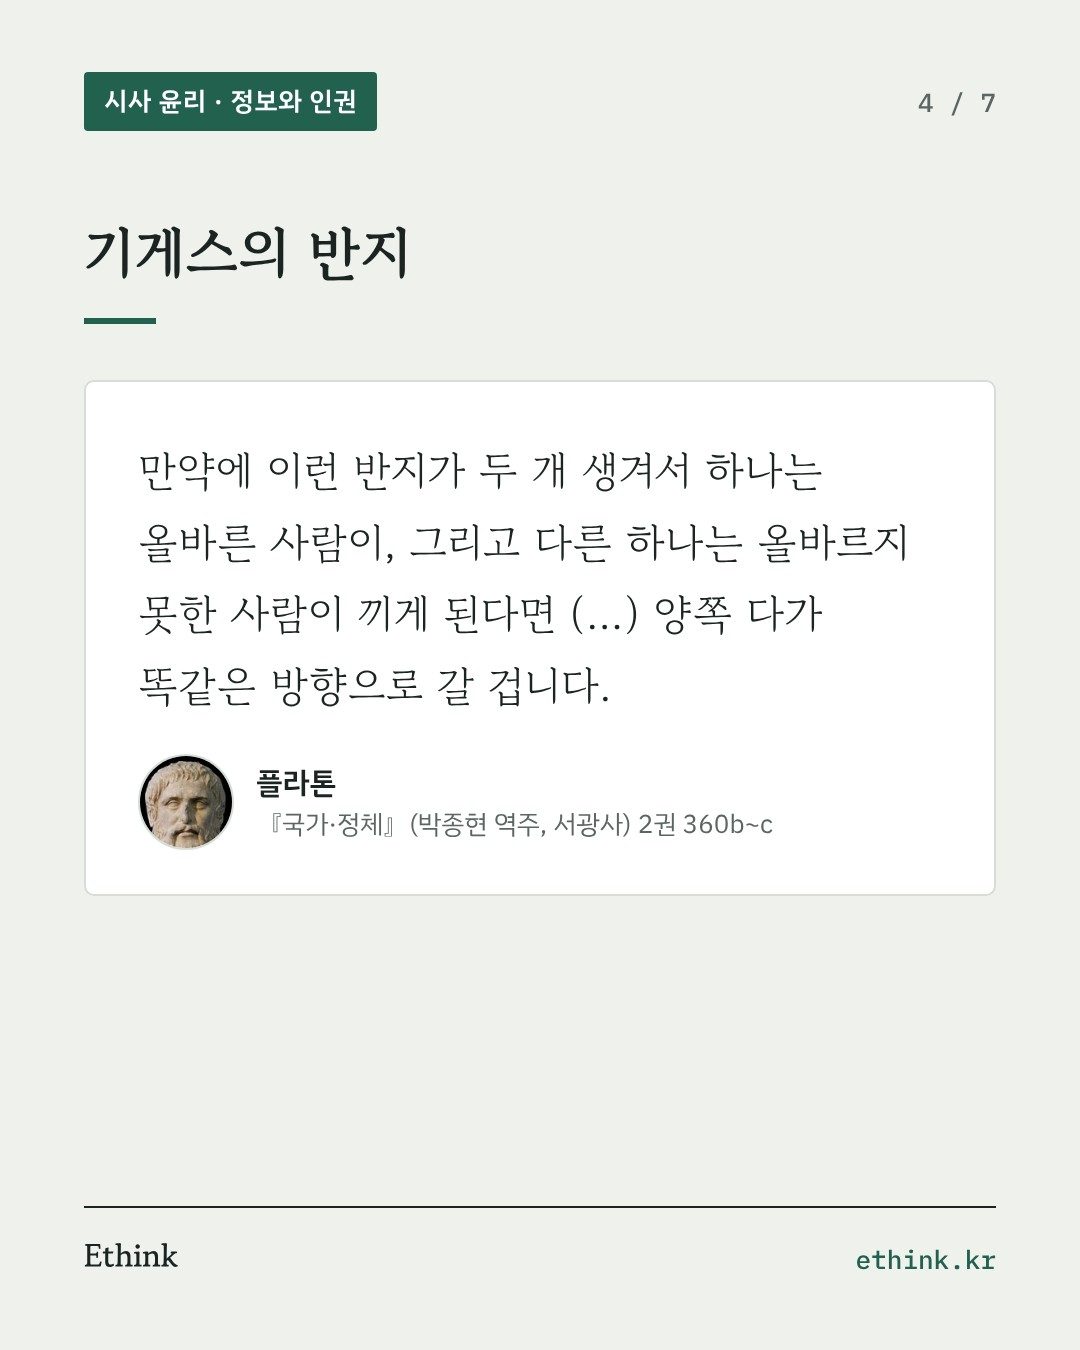
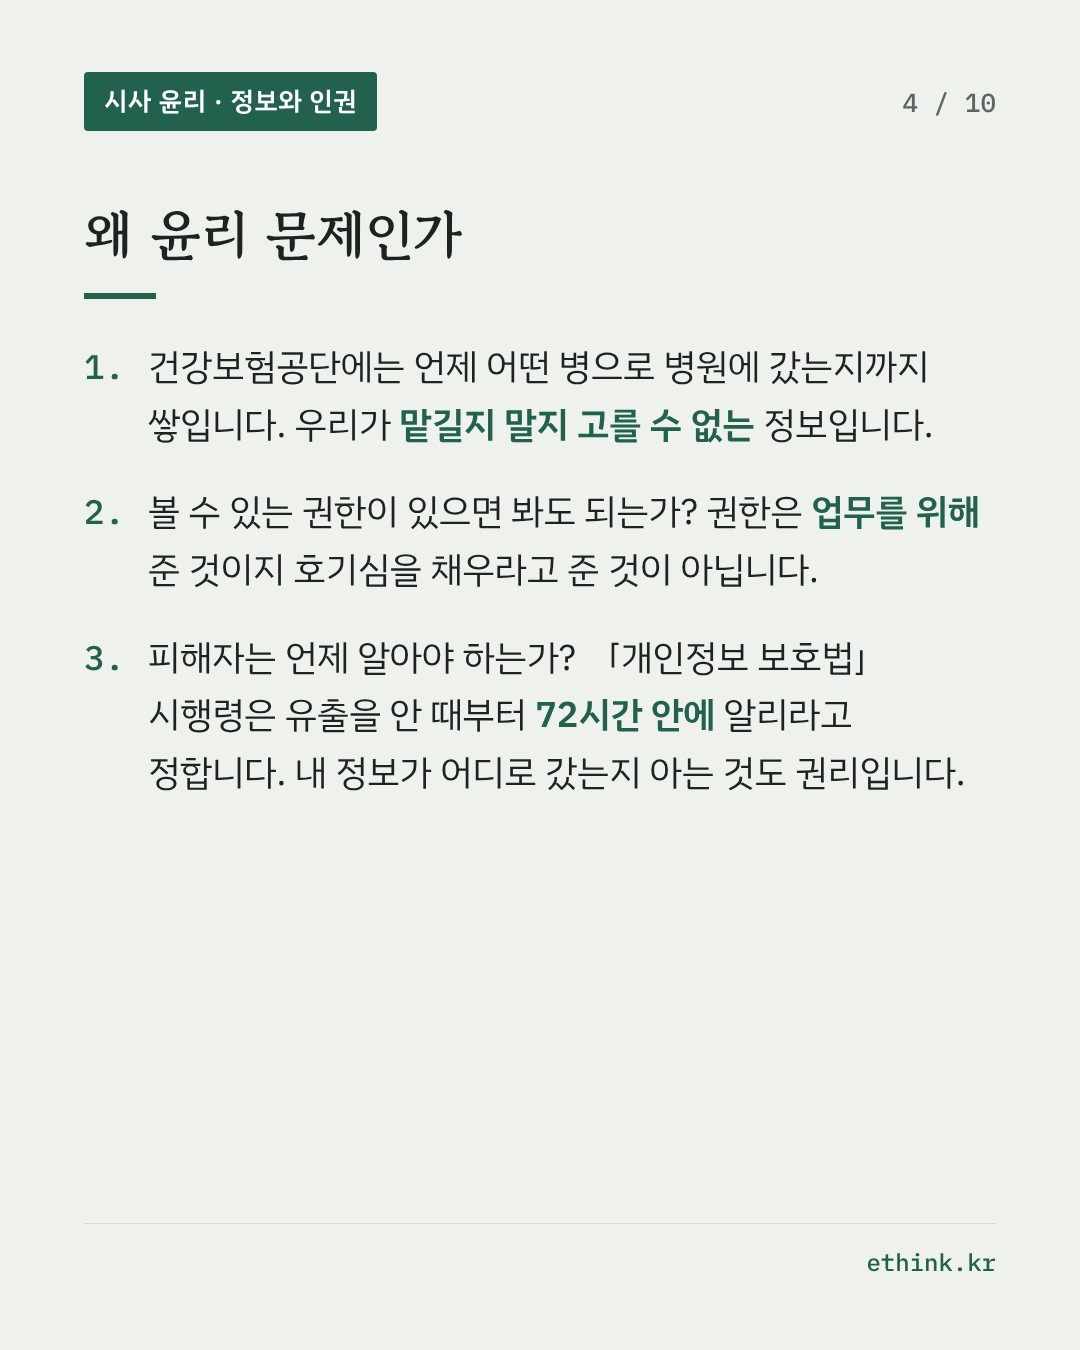
카드 시안 2: Ethink 글자 빼고 하단에 ethink.kr만, 10장으로 내용 보강, 지침 갱신
Claude-Session: https://claude.ai/code/session_015bQvLW38M9G43q7XUxVD63

diff --git a/_tools/WRITING_GUIDE.md b/_tools/WRITING_GUIDE.md
@@ -41,9 +41,10 @@
 
 ## 6. 썸네일(공유 이미지)
 - 글마다 `assets/og/YYYY-MM-DD-N.jpg`: `NODE_PATH=$(npm root -g) node _tools/og-page.cjs YYYY-MM-DD-N "윤리로 읽는 뉴스 · 묶음 이름" "글 제목" "수업 질문" /weekly/YYYY-MM-DD/N/` 로 만들고, 글 앞머리에 `og_image: /assets/og/YYYY-MM-DD-N.jpg`를 적는다. 없으면 호 이미지(호가 있을 때)나 사이트 기본 이미지가 쓰인다.
-- 인스타그램(@ethink.kr) 카드 뉴스(2026-10-27 글부터): 글마다 여러 장(6~7장, 최대 10장)의 세로 카드(1080×1350)를 만든다.
-  - 카드 문안 `_items/YYYY-MM-DD/ig-cards-N.yml`을 쓴다(본보기 `_items/2026-10-24/ig-cards-1.yml`, 형식은 `_tools/ig-cards.cjs` 머리말). 기본 구성: ① cover(코너·제목·질문, 앞머리에서 자동) ② text '무슨 일이 있었나'(big에 숫자 하나 + 사실 2줄) ③ text '왜 윤리 문제인가'(물음 두 가지) ④ quote(사상가 한 문장, who는 faces.yml 이름 — 초상 자동, source는 출처) ⑤ compare 또는 flow(본문 도식을 그대로) ⑥ (선택) flow ⑦ end(질문 다시, ethink.kr 안내). 카드 한 장에 3~4줄을 넘기지 않는다. 문장은 본문에 있는 사실·인용만 줄여 쓰고, 인용문은 원문 그대로 두고 생략은 (…)로 표시한다.
-  - 이미지: `NODE_PATH=$(npm root -g) node _tools/ig-cards.cjs _items/YYYY-MM-DD/N.md` → `assets/ig/YYYY-MM-DD-N-01.jpg` …(playwright, js-yaml 필요: `npm i -g playwright js-yaml`).
+- 인스타그램(@ethink.kr) 카드 뉴스(2026-10-27 글부터): 글마다 8~10장의 세로 카드(1080×1350)를 만든다. 글을 읽지 않아도 사건·쟁점·사상가 풀이·수업 활용이 잡힐 만큼 내용을 담는다.
+  - 디자인: 시사 글은 연한 녹색 바탕·진한 녹색 표지, 책 글은 종이색 바탕·벽돌색 표지. 모든 카드 왼쪽 위 같은 자리에 분류(「시사 윤리 · 정보와 인권」, 「윤리로 읽는 책 · 지은이」), 하단에는 작게 ethink.kr만 둔다(Ethink 글자 넣지 않음).
+  - 표지: 그림 한 장 위에 질문 한 줄(hook, 25자 안팎). 그림은 저작권이 풀린 명화·판화(위키미디어 커먼즈, 레이크스미술관·메트로폴리탄 CC0 등)나 사상가 초상, 재형 님이 찍은 사진만 쓴다. 보도사진은 쓰지 않는다. 받은 그림은 `assets/art/`에 두고 credit에 "작품명, 시대·작가 · 퍼블릭 도메인/CC0"를 적는다. 책 글에 그림이 없으면 책 표지가 가운데 들어간다.
+  - 카드 문안 `_items/YYYY-MM-DD/ig-cards-N.yml`을 쓴다(본보기 `_items/2026-10-24/ig-cards-1.yml`, 형식은 `_tools/ig-cards.cjs` 머리말). 기본 구성: ① cover ② text '무슨 일이 있었나'(big에 숫자 하나 + 사실 두 문단) ③ notes 사실·수치 더 보기 ④ notes '왜 윤리 문제인가'(물음 2~3개) ⑤ text 사상가 이야기 풀이(그림 선택) ⑥⑦ quote 사상가 원문(note로 사례와 잇는 한두 문장) ⑧ compare ⑨ flow 수업 흐름 ⑩ end '이번 주 질문'(댓글 청하기). 카드 한 장에 짧은 문단 3~4개, 핵심 말은 **굵게**. 문장은 본문에 있는 사실·인용만 쓰고, 인용문은 원문 그대로 두고 생략은 (…)로 표시한다.
   - 「윤리로 읽는 책」은 문안을 `_reads/ig/<글 파일이름>.yml`에 두고 ② 대신 book(표지 작게, "표지 이미지: 알라딘" 자동)과 underline(밑줄 1~2개) 카드를 쓴다. 책 글 카드는 자동 게시하지 않는다(재형 님이 따로 올림).
   - 생존 인물은 사이트와 같이 머리글자 원으로 둔다(faces.yml).
   - **승인**: 문안 파일 첫 줄 근처 `approved: false`로 만든다. 재형 님께 카드 이미지 전부와 캡션을 보여 드리고 승인을 받은 뒤에만 `approved: true`로 바꿔 main에 넣는다. `approved: true`가 아니면 자동 게시 도구가 올리지 않는다.
